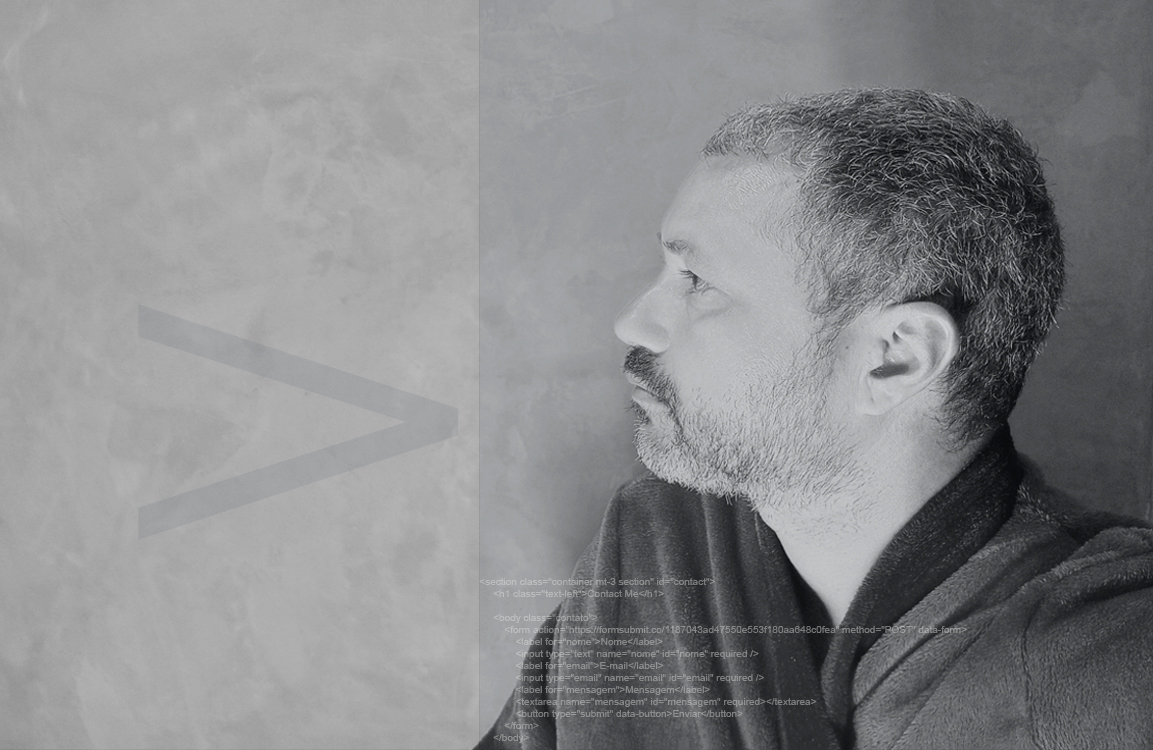
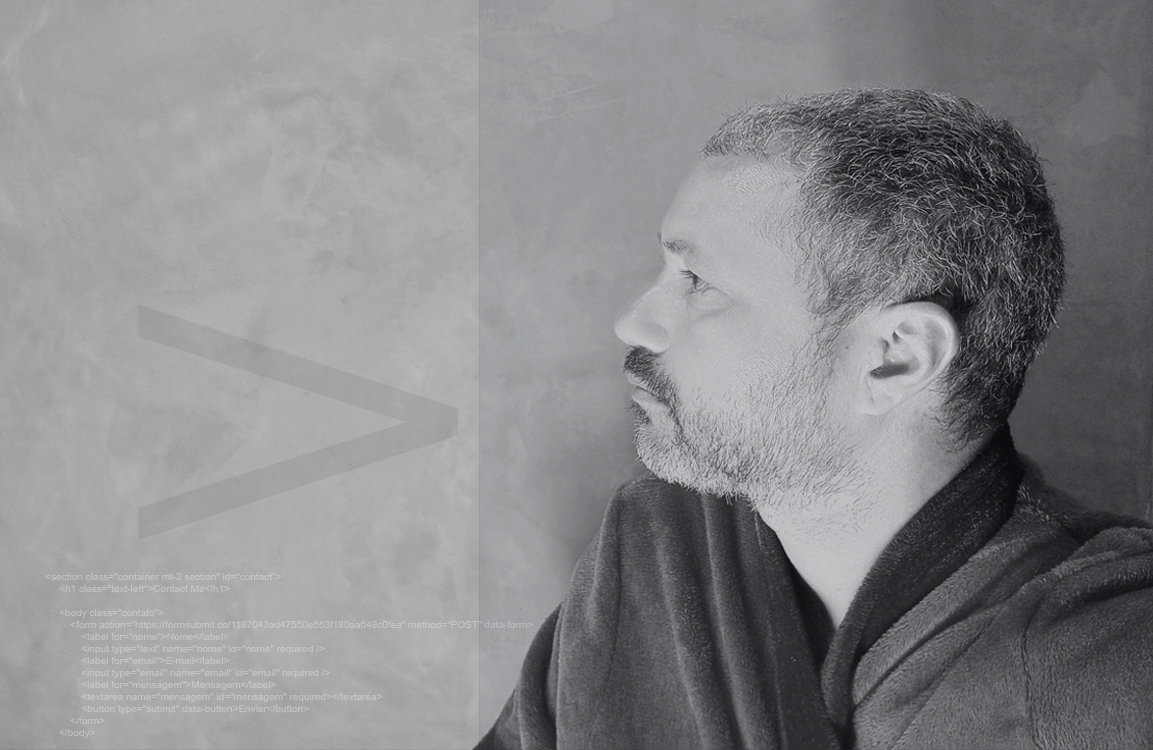
foi atualizado

Changed region(s): [[0.4371, 0.7667, 0.843, 1.0]]

diff --git a/index.html b/index.html
@@ -6,8 +6,8 @@
     <meta charset="utf-8">
     <meta name="viewport" content="width=device-width, initial-scale=1">
     <link rel="preconnect" href="https://fonts.googleapis.com">
-<link rel="preconnect" href="https://fonts.gstatic.com" crossorigin>
-<link href="https://fonts.googleapis.com/css2?family=Heebo:wght@100..900&family=Montserrat:ital,wght@0,100..900;1,100..900&family=Nunito:ital,wght@0,200..1000;1,200..1000&display=swap" rel="stylesheet">
+    <link rel="preconnect" href="https://fonts.gstatic.com" crossorigin>
+    <link href="https://fonts.googleapis.com/css2?family=Heebo:wght@100..900&family=Montserrat:ital,wght@0,100..900;1,100..900&family=Nunito:ital,wght@0,200..1000;1,200..1000&display=swap" rel="stylesheet">
     <!-- bootstrap CDN -->
     <link href="https://cdn.jsdelivr.net/npm/bootstrap@5.2.3/dist/css/bootstrap.min.css" rel="stylesheet">
     <script src="https://cdn.jsdelivr.net/npm/bootstrap@5.2.3/dist/js/bootstrap.min.js"></script>
@@ -16,13 +16,10 @@
     <!-- linking css file -->
     <link rel="stylesheet" href="style.css">
     <script defer src="app.js"></script>
-
 </head>
 
 <body>
     <!-- navbar -->
-    <!-- https://getbootstrap.com/docs/5.2/components/navbar/ -->
-    <!-- Add class of bg-light to nav element -->
     <nav class="navbar navbar-expand-lg fixed-top navbarScroll navbar-dark">
         <div class="container">
             <a class="navbar-brand" href="#">Jorge</a>
@@ -43,17 +40,15 @@
                         <a class="nav-link" href="#contact">Contact</a>
                     </li>
                 </ul>
-
             </div>
+        </div>
     </nav>
 
     <!-- main banner -->
-    <!-- https://getbootstrap.com/docs/5.2/layout/containers/ -->
-    <!-- https://getbootstrap.com/docs/5.2/layout/grid/ -->
     <section class="container-fluid section bgimage" id="home">
         <div class="row">
             <div class="col-lg-12 col-md-12 col-sm-12 col-xs-12 hero_text">
-                <h2 class="hero_title">Oi, eu sou o Jorge</h2>
+                <h2 class="hero_title">Hi, I'm Jorge</h2>
                 <p class="hero_desc">Developer Frontend Jr | Mogi das Cruzes SP</p>
             </div>
         </div>
@@ -68,75 +63,61 @@
             </div>
         </div>
 
-            <div class="text-left">
-                <p>Sou um profissional em transição de carreira, buscando uma oportunidade como Desenvolvedor Front-End
-                    Jr. Graduado em Marketing (2016) e com experiência em projetos como freelancer na área de
-                    desenvolvimento web, aplicando tecnologias como HTML5, CSS, Bootstrap, Git e GitHub. Atualmente,
-                    estou finalizando dois semestres de Análise e Desenvolvimento de Sistemas e atuo em um escritório
-                    contábil em Mogi das Cruzes, SP.
+        <div class="text-left2">
+            <p>Sou um profissional em transição de carreira, buscando uma oportunidade como Desenvolvedor Front-End
+                Jr. Graduado em Marketing (2016) e com experiência em projetos como freelancer na área de
+                desenvolvimento web, aplicando tecnologias como HTML5, CSS, Bootstrap, Git e GitHub. Atualmente,
+                estou finalizando dois semestres de Análise e Desenvolvimento de Sistemas e atuo em um escritório
+                contábil em Mogi das Cruzes, SP.
 
-                    Minha experiência anterior foi na área comercial, onde trabalhei por 15 anos como vendedor em
-                    concessionárias de veículos e varejo. Durante esse período, desenvolvi habilidades em negociação,
-                    prospecção de clientes e construção de relacionamentos duradouros.
+                <p>Minha experiência anterior foi na área comercial, onde trabalhei por 15 anos como vendedor em
+                concessionárias de veículos e varejo. Durante esse período, desenvolvi habilidades em negociação,
+                prospecção de clientes e construção de relacionamentos duradouros.</p>
 
-                    Objetivo: Conquistar minha primeira posição como Desenvolvedor Front-End Jr., onde possa aplicar
-                    minhas habilidades técnicas e de comunicação para crescer na área de tecnologia.
-                </p>
+                <p>Objetivo: Conquistar minha primeira posição como Desenvolvedor Front-End Jr., onde possa aplicar
+                minhas habilidades técnicas e de comunicação para crescer na área de tecnologia.</p>
+            </p>
+        </div>
+        <div class="row mt-3">
+            <div class="col-md-12">
+                <h2 class="text-left">Certificados</h2>
+                <ul>
+                    <li>FreeCodeCamp - Responsive Web Design</li>
+                    <li>Udemy - Web Design completo Html, CSS, Javascript, VUE JS e Git</li>
+                    <li>Udemy - Photoshop, Illustrator, inDesign</li>
+                    <li>Alura - CSS Grid_ simplificando layouts</li>
+                    <li>Alura - HTML5 e CSS3 - Posicionamento, listas e navegação</li>
+                    <li>Google - Inteligencia Artificial</li>
+                    <li>Impacta Tecnologia - Lógica e Programação, Flash Mx</li>
+                </ul>
             </div>
-                <div class="row mt-3">
-                    <div class="col-md-12">
-                        <h2 class="text-left">Certificados</h2>
-                        <ul>
-                            <li>FreeCodeCamp - Responsive Web Design</li>
-                            <li>Udemy - Web Design completo Html, CSS, Javascript, VUE JS e Git</li>
-                            <li>Udemy - Photoshop, Illustrator, inDesign</li>
-                            <li>Alura - CSS Grid_ simplificando layouts</li>
-                            <li>Alura - HTML5 e CSS3 - Posicionamento, listas e navegação</li>
-                            <li>Google - Inteligencia Artificial</li>
-                            <li>Impacta Tecnologia - Lógica e Programação, Flash Mx</li>
-
-                        </ul>
-                        
-                    </div>
-                </div>
+        </div>
     </section>
-        
 
-</div>
     <!-- contact section-->
-    <!-- <form action="https://formsubmit.co/ seu@email.com " method="POST" />-->
-
     <section class="container mt-3 section" id="contact">
         <h1 class="text-left">Contact Me</h1>
-
-        <body class="contato">
-            <form action="https://formsubmit.co/1187043ad47550e553f180aa648c0fea" method="POST" data-form>
-                <label for="nome">Nome</label>
-                <input type="text" name="nome" id="nome" required />
-                <label for="email">E-mail</label>
-                <input type="email" name="email" id="email" required />
-                <label for="mensagem">Mensagem</label>
-                <textarea name="mensagem" id="mensagem" required></textarea>
-                <button type="submit" data-button>Enviar</button>
-            </form>
-        </body>
-
+        <form action="https://formsubmit.co/1187043ad47550e553f180aa648c0fea" method="POST" data-form>
+            <label for="nome">Nome</label>
+            <input type="text" name="nome" id="nome" required />
+            <label for="email">E-mail</label>
+            <input type="email" name="email" id="email" required />
+            <label for="mensagem">Mensagem</label>
+            <textarea name="mensagem" id="mensagem" required></textarea>
+            <button type="submit" data-button>Enviar</button>
+        </form>
     </section>
 
     <!-- footer section-->
     <footer class="container-fluid footer" id="footer">
-        <!-- social media icons -->
         <div class="social-icons mt-4">
             <a href="https://www.instagram.com/jorgeefamilia" target="_blank"><i class="fab fa-instagram"></i></a>
             <a href="https://www.linkedin.com/in/jorgeoliveira2/" target="_blank"><i class="fab fa-linkedin"></i></a>
             <a href="https://github.com/jorgeesite/devjunior" target="_blank"><i class="fab fa-github"></i></a>
-
+        </div>
     </footer>
 
     <!-- load javascript after loading all html content -->
     <script src="script/script.js"></script>
-    <script src="script/script.js"></script>
-
 </body>
-</div>
 </html>

diff --git a/style.css b/style.css
@@ -31,12 +31,12 @@
     /* text css above hero image*/
     .hero_title {
         padding-top: 10rem;
-        font-size: 4.5rem;
-        color: white;
+        font-size: 5.5rem;
+        
     }
     .hero_desc {
         font-size: 2rem;
-        color: white;
+        
     }
     .hero_text {
         text-align: center;
@@ -48,11 +48,12 @@
         
     }
     .text-left {
-      color: white;
+      
     }
 
     .image_about {
         width: 100%;
+        margin-bottom: auto;
       
     }
 
@@ -60,10 +61,16 @@
         background: #000000;
         ;   
     }
+    .text-left2 {
+      margin-top: 10;
+      font-size: 1.3rem;
+      padding: 1rem;
+    }
+  
 
     /* text about */
     .text-left {
-        color: rgb(255, 255, 255);
+        color: #26344a;
         
     }
 
@@ -71,19 +78,19 @@
         color: rgb(255, 255, 255);
     }
  
-      .contato {
+      .contact-me {
         min-height: 100vh;
         display: grid;
         place-items: left;
         padding: 1rem;
-        background: #272a37;
+        background: #9a9b9e;
         color:rgb(255, 255, 255)
         
       }
       
       form {
         width: 100%;
-        max-width: 30rem;
+        max-width: 20rem;
       }
       
       label,
@@ -97,20 +104,19 @@
       textarea,
       button {
         width: 100%;
-        font: inherit;
-        padding: 1.25rem;
+        padding: 1.30rem;
         font-weight: 700;
       }
       
       input,
       textarea {
-        margin-bottom: 1rem;
-        color: white;
-        background: #323644;
-        border: 0.125rem solid transparent;
+        margin-bottom: 2rem;
+        color: rgb(0, 0, 0);
+        background: #c2c3c9;
+        border: 0.300rem solid transparent;
         border-radius: 1.125rem;
-        transition: border-color 0.3s, 
-        box-shadow 0.3s;
+        transition: border-color 0.1s, 
+        box-shadow 0.1s;
       }
       
       input:hover,
@@ -119,12 +125,12 @@
       textarea:focus {
         outline: none;
         border-color: #1d90f5;
-        box-shadow: 0 0 0 0.3125rem #26344a;
+       
       }
       
       label {
         margin-bottom: 0.5rem;
-        color: #84868f;
+        color: #000000;
       }
       
       textarea {
@@ -149,7 +155,7 @@
       
       button:disabled {
         cursor: not-allowed;
-        background: #555b69;
+        background: #aeb1b8;
       }
       
       .success,
@@ -172,7 +178,7 @@
     .fa-instagram:hover,
     .fa-linkedin:hover, 
     .fa-github:hover {
-        color: #fff;
+        color:#1c70d3;
     }
     .fab {
         color: #000000;
